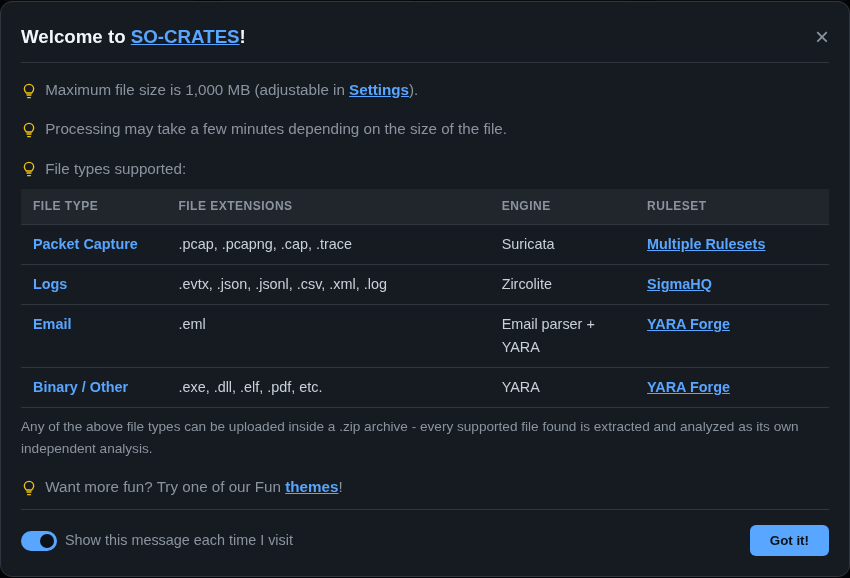
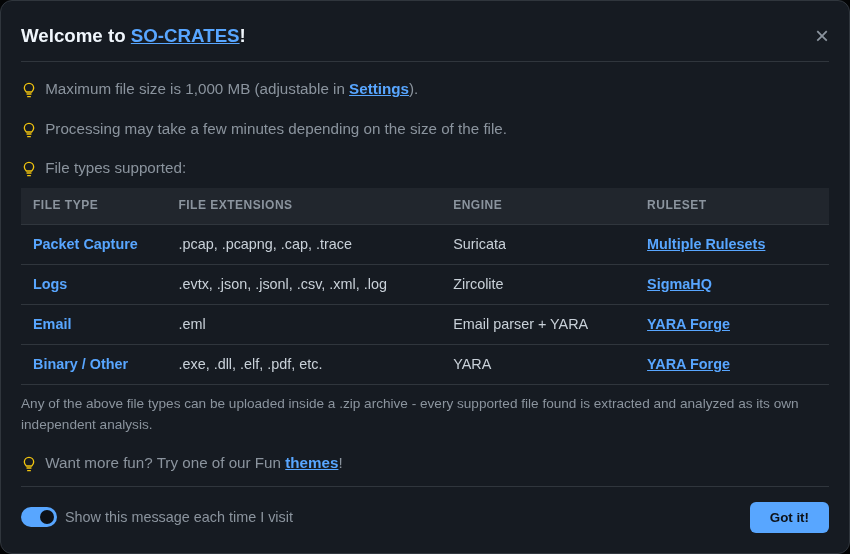
Keep the welcome window's Email row on one line
"Email parser + YARA" wrapped in the File types supported table's
Engine column (18% of a fixed 808px table), making the Email row twice
as tall as the others. Engine now gets 24%, taken from File Extensions
(40% -> 34%), whose longest value still fits. A test pins the widths,
and so-crates-welcome.png is recaptured.

diff --git a/static/socrates.js b/static/socrates.js
@@ -2231,8 +2231,8 @@
                 <thead>
                     <tr style="border-bottom: 1px solid var(--border-color);">
                         <th style="text-align: left; padding: 8px 12px; color: var(--text-muted); font-weight: 600; width: 18%;">File Type</th>
-                        <th style="text-align: left; padding: 8px 12px; color: var(--text-muted); font-weight: 600; width: 40%;">File Extensions</th>
-                        <th style="text-align: left; padding: 8px 12px; color: var(--text-muted); font-weight: 600; width: 18%;">Engine</th>
+                        <th style="text-align: left; padding: 8px 12px; color: var(--text-muted); font-weight: 600; width: 34%;">File Extensions</th>
+                        <th style="text-align: left; padding: 8px 12px; color: var(--text-muted); font-weight: 600; width: 24%;">Engine</th>
                         <th style="text-align: left; padding: 8px 12px; color: var(--text-muted); font-weight: 600; width: 24%;">Ruleset</th>
                     </tr>
                 </thead>

diff --git a/tests/test_socrates_ui.py b/tests/test_socrates_ui.py
@@ -598,6 +598,15 @@ class TestJavaScriptFunctions(unittest.TestCase):
     def test_has_welcomeHelpContent(self):
         self.assertIn('function getWelcomeHelpContent', JS_CONTENT)
 
+    def test_welcome_file_types_engine_column_fits_email_parser_yara(self):
+        """REGRESSION: at 18%, the Engine column wrapped "Email parser + YARA"
+        onto two lines in the Welcome window's fixed 808px table, making the
+        Email row twice as tall. File Extensions (whose longest value, the
+        log extensions, fits in 34%) gives the Engine column 6%."""
+        widths = dict((name, int(w)) for w, name in re.findall(
+            r'width: (\d+)%;">(File Type|File Extensions|Engine|Ruleset)</th>', JS_CONTENT))
+        self.assertEqual(widths, {'File Type': 18, 'File Extensions': 34, 'Engine': 24, 'Ruleset': 24})
+
     def test_has_showAnalysisUI(self):
         self.assertIn('function showAnalysisUI', JS_CONTENT)
 
